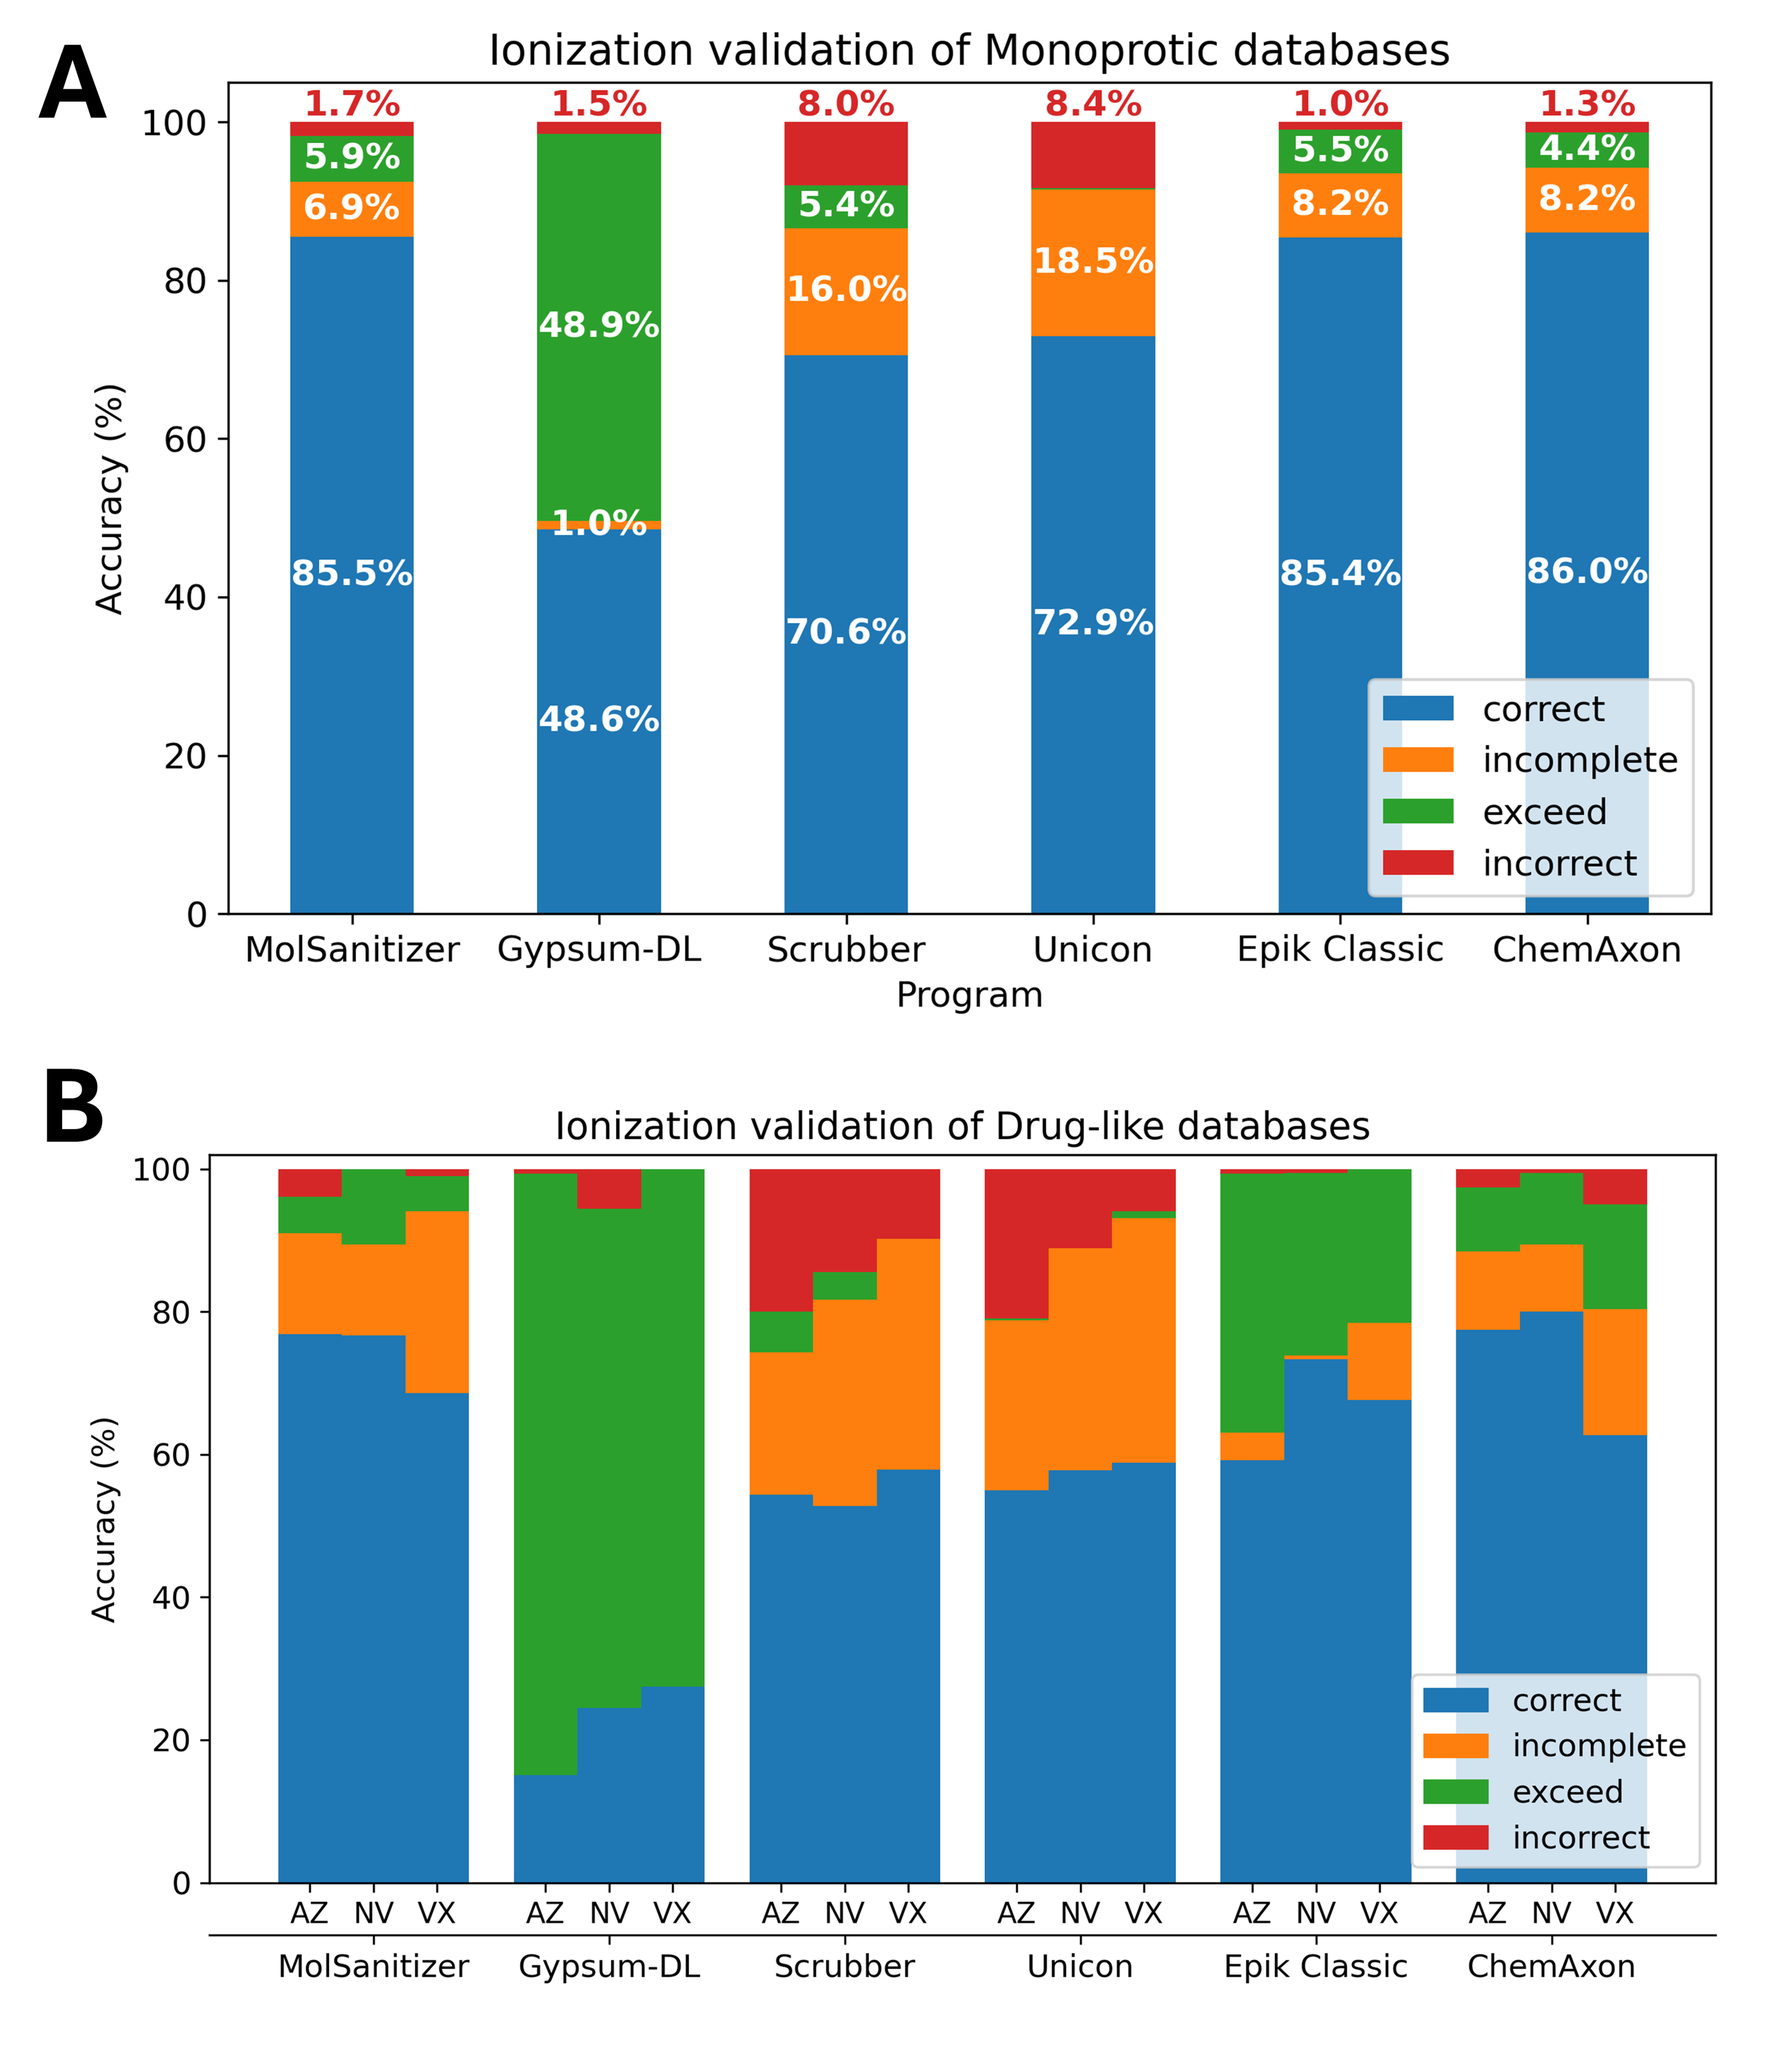
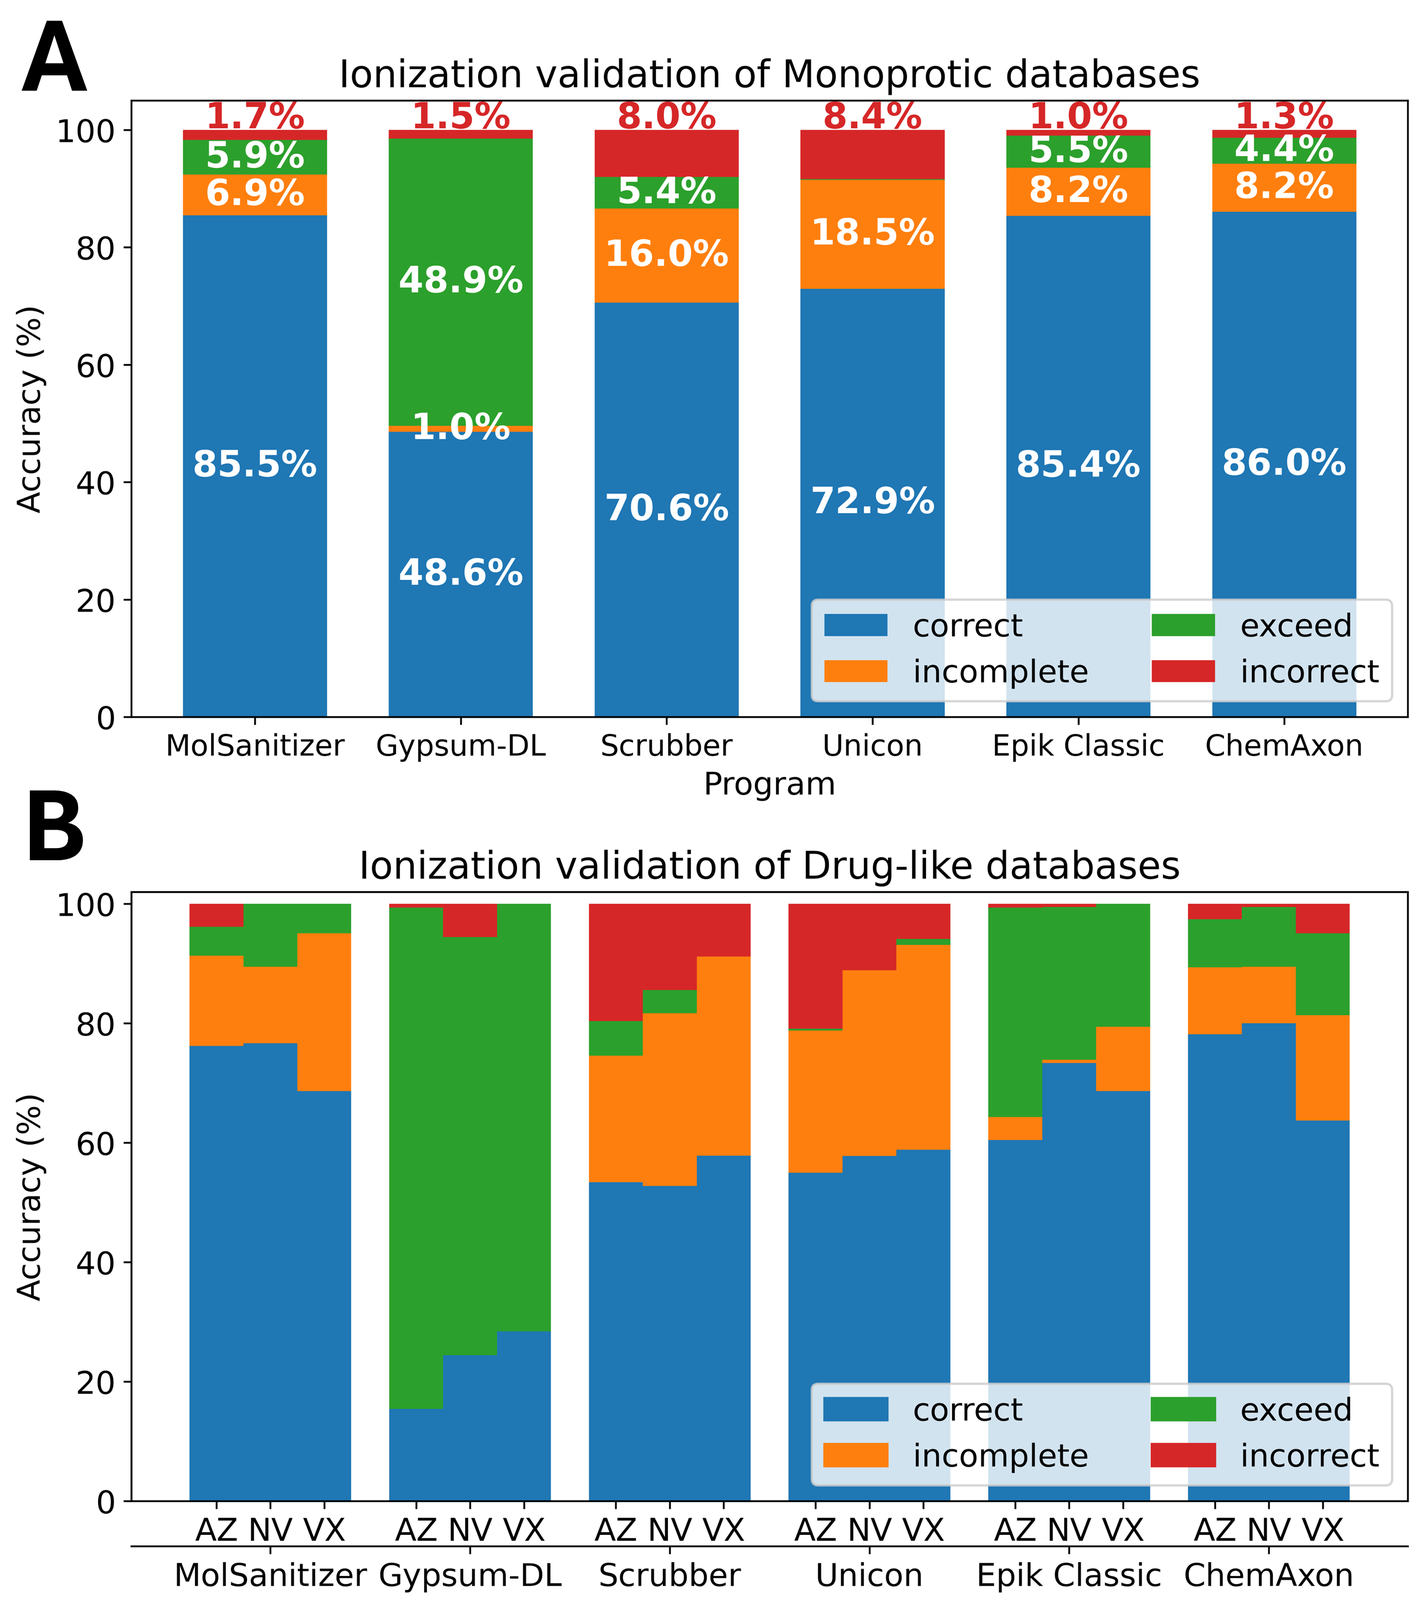
New validation results and update a typo in installation

diff --git a/docs/source/installation.rst b/docs/source/installation.rst
@@ -8,7 +8,7 @@ Dependencies
 
 MolSanitizer is built upon the following packages:
 
-- RDKit 2024.09.6+ (`Reference <https://www.rdkit.org/docs/Install.html>`_)
+- RDKit 2024.09.3+ (`Reference <https://www.rdkit.org/docs/Install.html>`_)
 
 - OpenBabel 3.1.1 (`Reference <https://openbabel.org/docs/dev/Installation/install.html>`_)
 
